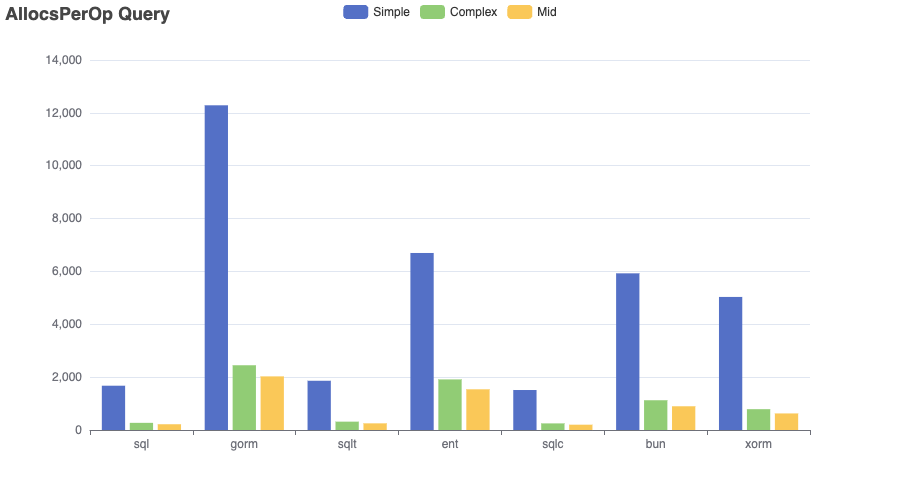
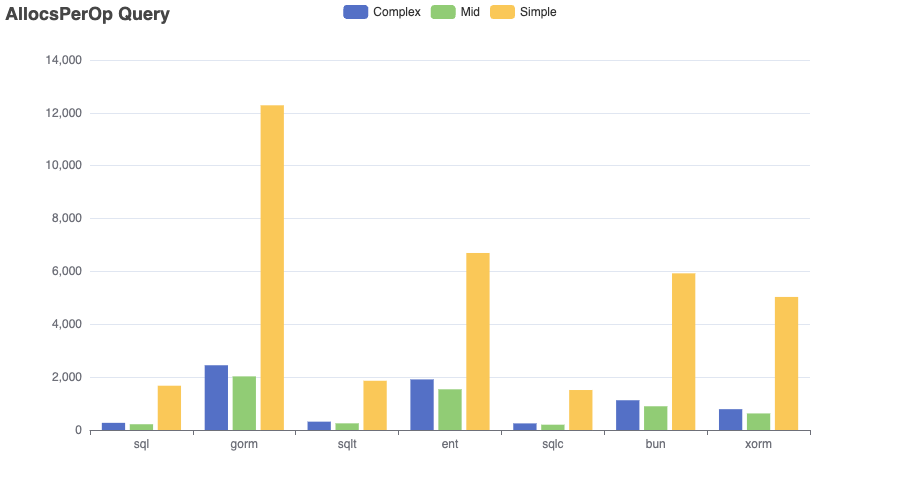
charts: variant order

diff --git a/cmd/chart/main.go b/cmd/chart/main.go
@@ -22,6 +22,7 @@ func main() {
 	scan := bufio.NewScanner(os.Stdin)
 
 	frameworks := []string{"sql", "gorm", "sqlt", "ent", "sqlc", "bun", "xorm"}
+	variants := []string{}
 
 	data := map[string]map[string]float64{}
 
@@ -54,6 +55,7 @@ func main() {
 		}
 
 		if data[variant] == nil {
+			variants = append(variants, variant)
 			data[variant] = map[string]float64{}
 		}
 
@@ -82,12 +84,12 @@ func main() {
 
 	chart.SetXAxis(frameworks)
 
-	for name, variant := range data {
+	for _, variant := range variants {
 		values := make([]opts.BarData, len(frameworks))
 		for i, fw := range frameworks {
-			values[i] = opts.BarData{Value: variant[fw]}
+			values[i] = opts.BarData{Value: data[variant][fw]}
 		}
-		chart.AddSeries(name, values)
+		chart.AddSeries(variant, values)
 	}
 
 	filename := fmt.Sprintf("%s_%s.png", *benchmark, *unit)
